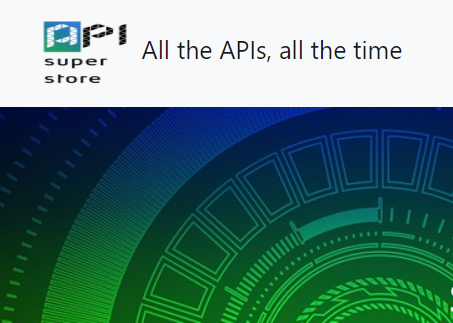
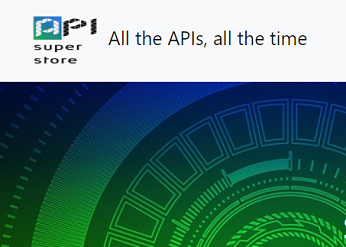
made some design tweaks

diff --git a/css/style.css b/css/style.css
@@ -1,29 +1,28 @@
 .bg-primary {
-    background-image: linear-gradient(to right, rgb(22, 22, 61), grey ) !important;
+    background-image: linear-gradient(to right, rgb(103, 154, 173), rgb(88, 118, 153) ) !important;
 }
 
 .modal-border {
-    border: 1px solid #5c3d46;
+    border: 1px solid black;
     height: 250px;
 }
 
 #mainNav .navbar-nav li.nav-item a.nav-link:hover {
-    color: rgb(125, 54, 206) !important;
+    color: rgb(69, 101, 189) !important;
   }
 
   .navbar-nav > li.nav-item > a.nav-link.active {
     color: #fff;
-    background: #9073e9 !important;
+    background: #5d8a8d !important;
 }
 
 .navbar-nav > li.nav-item > a.nav-link.active {
     color: #fff;
-    background: #9073e9;
+    background: #150938;
 }
 
 hr.star-light:after {
     color: #fff;
-    background-color: #9073e9 !important;
   }
 
   

diff --git a/index.html b/index.html
@@ -127,7 +127,7 @@
                 <i class="fas fa-search-plus fa-3x"></i>
               </div>
             </div>
-            <img class="img-fluid" src="img/treebackground.png" alt="Trees">
+            <img class="img-fluid" src="img/portfolio/randombabyrelated.png" alt="Trees">
           </a>
         </div>
       </div>
@@ -178,11 +178,6 @@
               </a>
             </li>
           </ul>
-        </div>
-        <div class="col-md-4">
-          <h4 class="text-uppercase mb-4">Created Using</h4>
-          <p class="lead mb-0">
-            <a href="http://startbootstrap.com">Bootstrap</a>
         </div>
       </div>
     </div>

diff --git a/css/freelancer.css b/css/freelancer.css
@@ -218,7 +218,7 @@ header.masthead h2 {
   -webkit-transition: all ease 0.5s;
   transition: all ease 0.5s;
   opacity: 0;
-  background-color: rgba(24, 188, 156, 0.9);
+  background-color: #5d8a8d;
 }
 
 .portfolio .portfolio-item .portfolio-item-caption:hover {
@@ -354,7 +354,7 @@ a:focus, a:hover, a:active {
 }
 
 .bg-secondary {
-  background-color: #2d2d44d8 !important;
+  background-color: #acc49ba4 !important;
 }
 
 .text-primary {
@@ -376,7 +376,7 @@ a:focus, a:hover, a:active {
 }
 
 .btn-secondary {
-  background-color: #2C3E50;
+  background-color: rgb(77, 116, 155);
   border-color: #2C3E50;
 }
 
